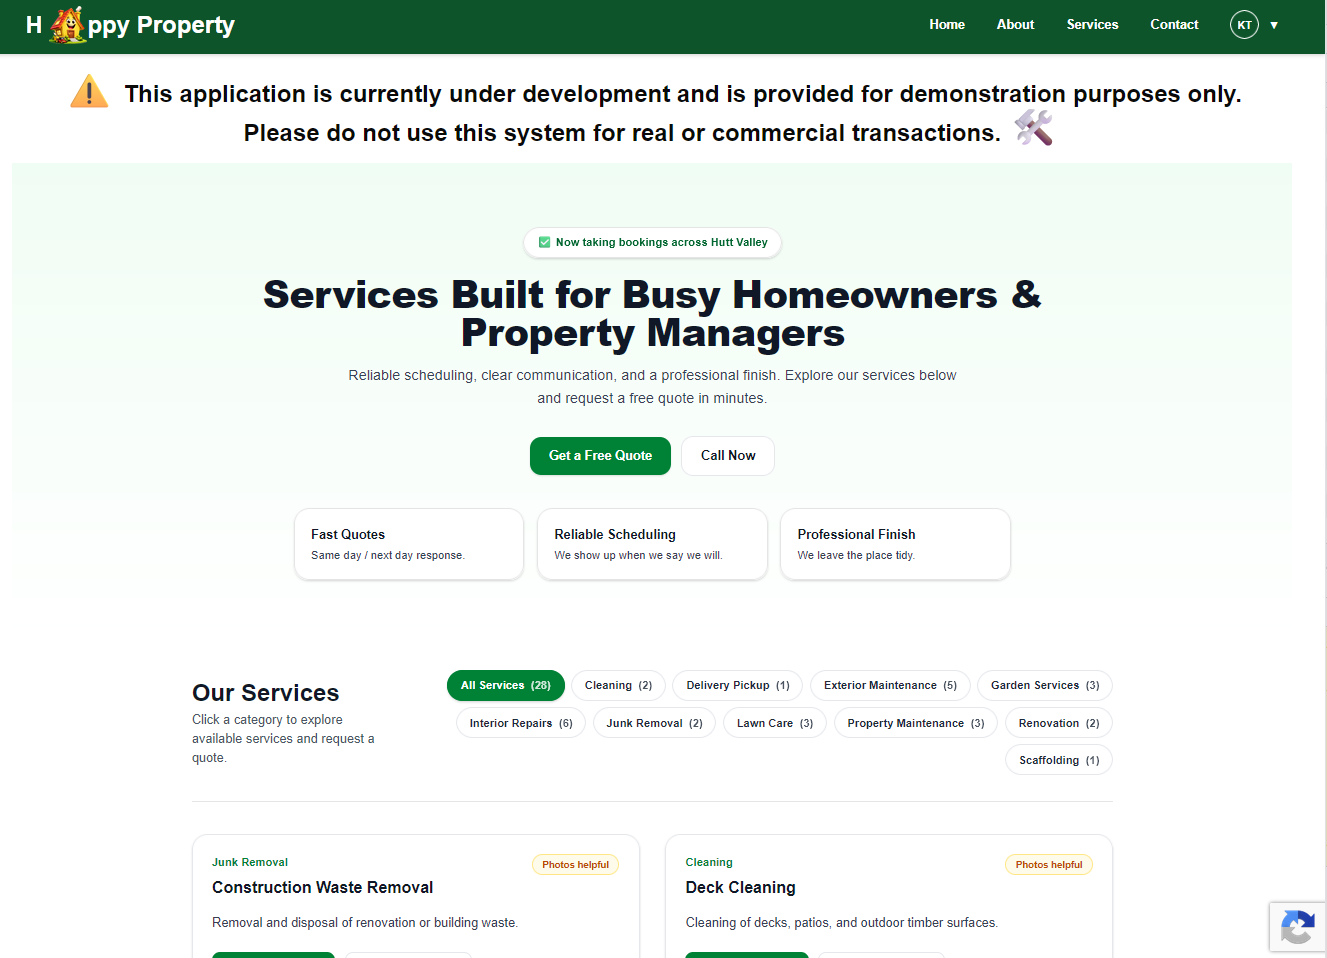
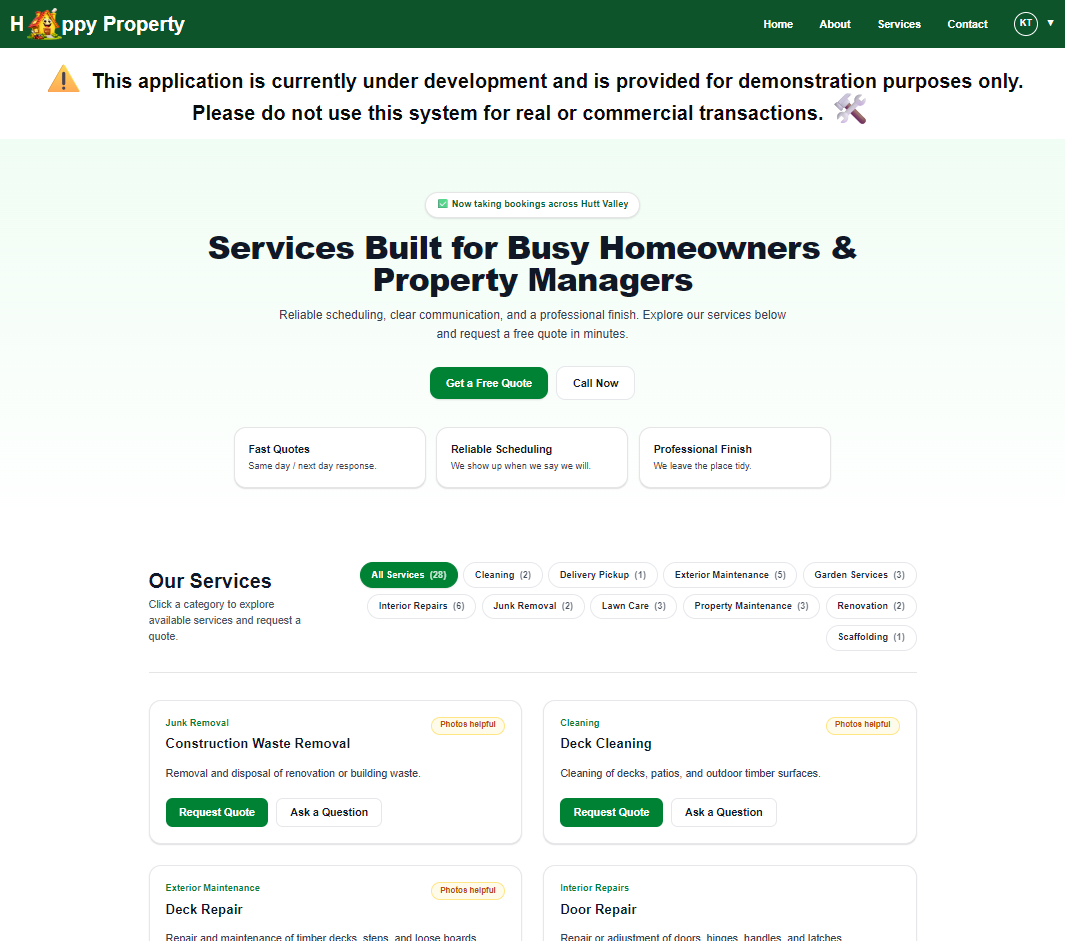
added more pictures to happy property

diff --git a/src/data/projects.js b/src/data/projects.js
@@ -61,7 +61,11 @@ export const projects = [
       "/images/happy-property-auth-page.png",
       "/images/happy-property-service-page.png",
       "/images/happy-property-owner-dashboard.png",
-      "/images/happy-property-customer-dashboard.png"
+      "/images/happy-property-customer-dashboard.png",
+      "/images/happy-property-jobs-in-dashboard.png",
+      "/images/happy-property-jobs-details.png",
+      "/images/happy-property-jobs-in-dashboard-1.png",
+      "/images/happy-property-client-quote.png",
     ],
   },
   {